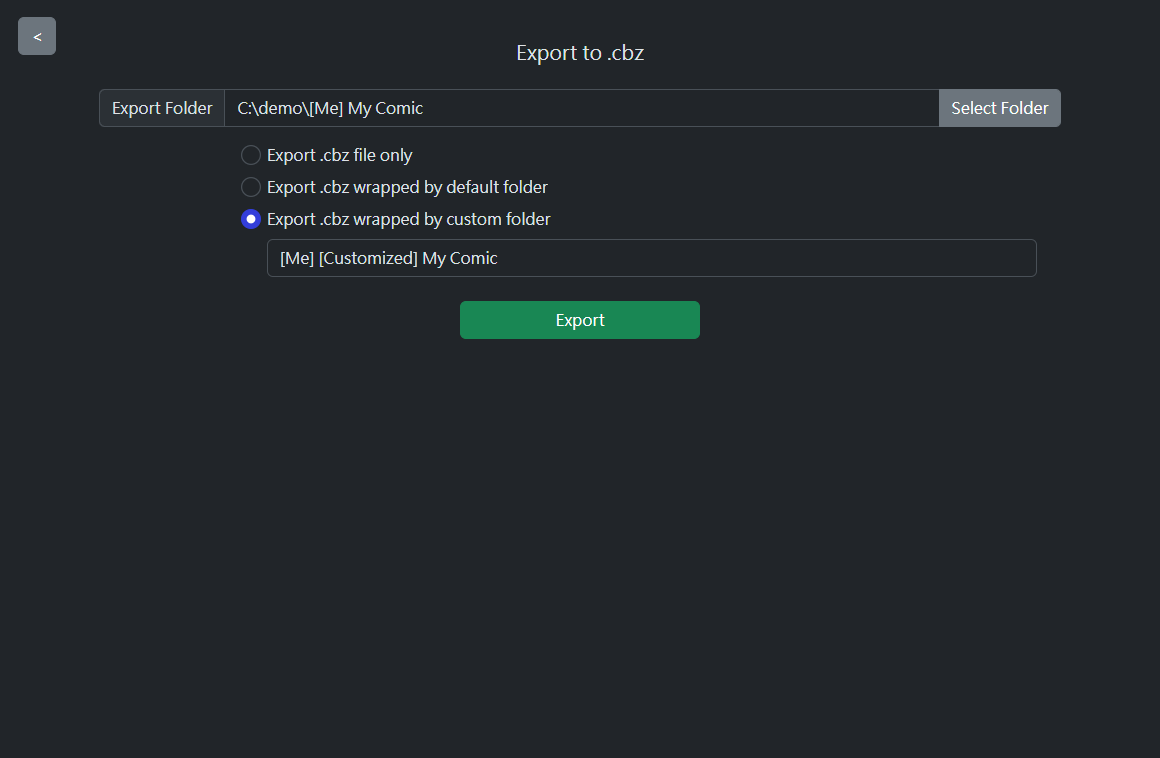
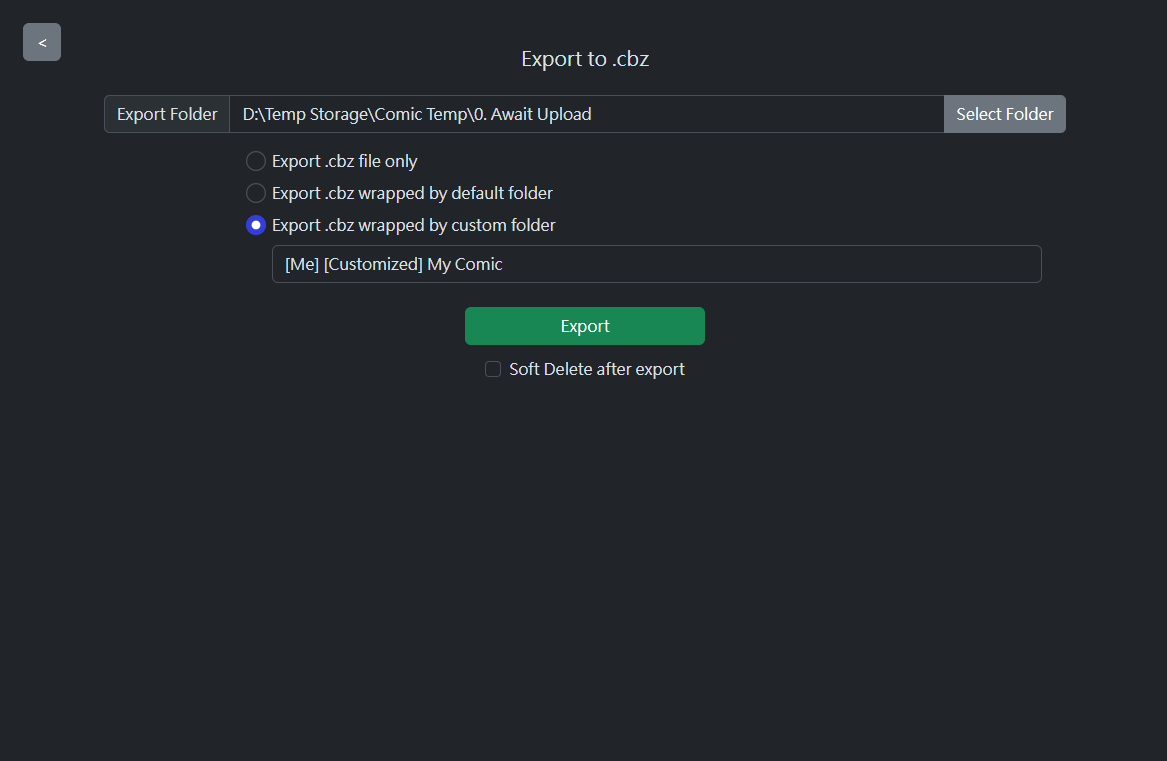
Update README for new soft delete feature

diff --git a/README.md b/README.md
@@ -59,6 +59,12 @@ After preview & press button to export, User can defined export folder, and expo
 | ![Export UI](screenshots/export.png) | ![Custom Export](screenshots/export_custom.png) |
 | ------------------------------------ | ----------------------------------------------- |
 
+#### Soft Delete after export
+
+If user has configured a trash bin (specified for this program), then they can tick "Soft delete after export" option.
+
+This option will move current working comic folder to user defined trash bin when a successful export process completed.
+
 ### Quick Export (Komga Only)
 
 Ignore preview section and generate `.cbz` with `komga` folder structure directly.
